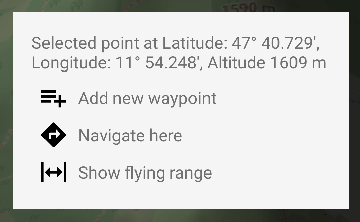
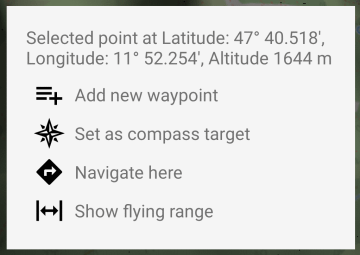
updated manual for compass feature

Changed region(s): [[0.0, 0.0, 1.0, 1.0], [0.2139, 0.7297, 0.6111, 0.8649], [0.0917, 0.7297, 0.1833, 0.8649]]

diff --git a/src/App/Resources/Assets/info/manual.md b/src/App/Resources/Assets/info/manual.md
@@ -33,6 +33,8 @@ have the following options:
 
 - ![Show details](images/information-outline.svg) Show details: Opens a page
   with the location's details
+- ![Set as compass target](images/compass-rose.svg) Set as compass target:
+  Sets location as new compass target
 - ![Navigate here](images/directions.svg) Navigate here: Starts the navigation
   app to show a route to this location
 
@@ -92,6 +94,7 @@ A long tap on the map shows the following menu:
 ![Long-tap menu](images/longtap-menu.png)
 
 - Add new waypoint: Adds a new waypoint location to the location list.
+- Set as compass target: Sets the selected point as new compass target.
 - Navigate here: Starts the navigation app to show a route to this point.
 - Show flying range: Shows a cone at the selected point that visualizes the
   areas that can be reached with a given glide ratio. The following dialog
@@ -183,9 +186,11 @@ locations in the list.
 When long-tapping a single location entry, a context menu appears with the
 following menu entries:
 
-- ![Info](images/information-outline.svg) Shows details for the selected
+- ![Show Detaails](images/information-outline.svg) Shows details for the selected
   location
 - ![Zoom to](images/magnify-plus-outline.svg) Zooms to the location on the map
+- ![Set as compass target](images/compass-rose.svg) Sets location as new
+  compass target
 - ![Delete](images/delete.svg) Deletes the selected location
 
 ### Location details
@@ -199,6 +204,8 @@ Distance field contains the current distance to the location.
 The following title bar icons are available:
 
 - ![Zoom to](images/magnify-plus-outline.svg) Zooms to the location on the map
+- ![Set as compass target](images/compass-rose.svg) Sets location as new
+  compass target
 - ![Navigate](images/directions.svg) Starts the navigation app to
   show a route to this location
 - ![Share](images/share-variant.svg) Shares the location with other apps
@@ -329,15 +336,40 @@ resets the time offset to -3 minutes.
 
 ## ![Current position](images/compass.svg) Current position
 
-![Current Position](images/current-position.png)
+The current position page has two tabs: Detail Infos and Compass.
 
-The current position page shows the coordinates and other infos about the
-current position. If available, the magnetic compass of the device is used
-instead of the heading calculated from GPS. The sunrise and sunset times are
-calculated from the current longitude and latitude.
+### Detail Infos
+
+![Detail Infos](images/current-position.png)
+
+The detail infos tab page shows the coordinates and other infos about the
+current position. If available, the magnetic compass direction is show. In
+addition, the true-north direction, determined by the compass and the current
+location is shown, or the heading from the GPS device is used. The sunrise and
+sunset times are calculated from the current longitude and latitude.
 
 The position data can be shared with other apps using the
 ![Share](images/share-variant.svg) share button.
+
+### Compass
+
+![Compass](images/compass.png)
+
+The compass tab page shows a compass with the cardinal directions, and when
+the current position is available, the sunrise and sunset. As soon as a
+location or position on the map is selected as "compass target", the compass
+also shows the direction to this position. Below, the magnetic and true-north
+heading is displayed, as well as distance and height difference to the
+selected compass target.
+
+The following title bar buttons are available:
+
+- ![Set compass direction](images/compass-rose.svg) Set compass direction:
+  Lets you select a compass direction without a specific target location, e.g
+  to determine landmarks from your current position and then checking the map.
+  The following dialog appears to select the compass target direction:
+
+![Set compass direction dialog](images/compass-direction.png)
 
 ## ![Weather](images/weather-partly-cloudy.svg) Weather
 
